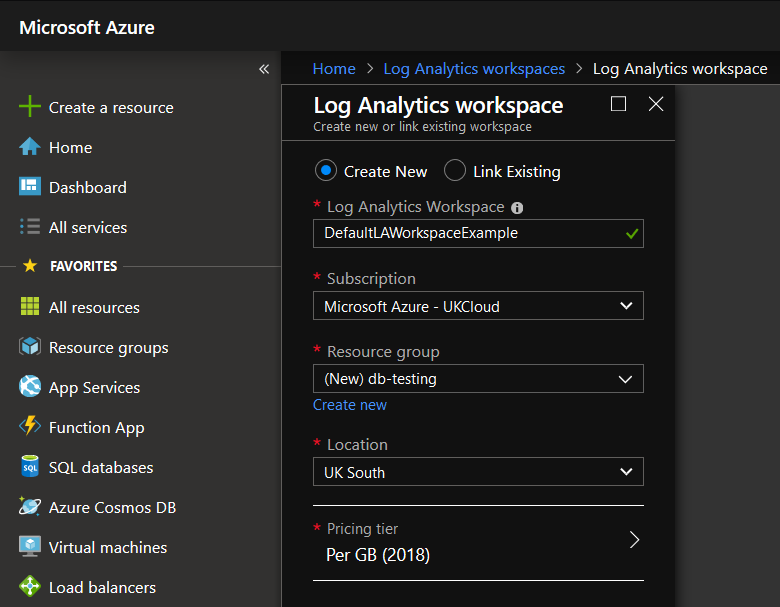
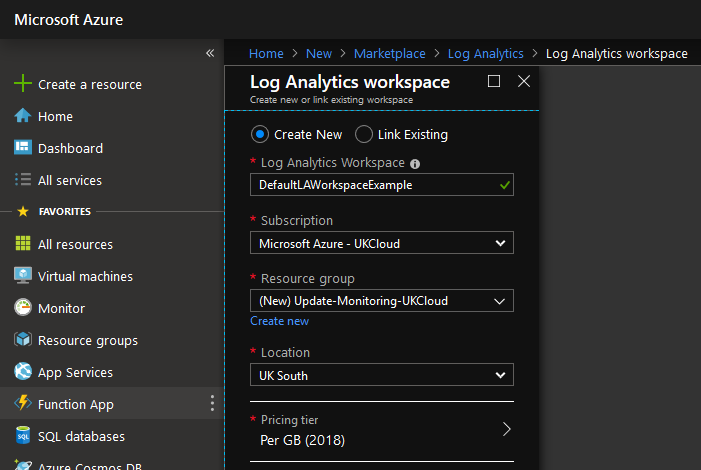
Changes requested.

diff --git a/articles/azure/azs-how-config-vm-update-management.md b/articles/azure/azs-how-config-vm-update-management.md
@@ -45,15 +45,15 @@ To complete the steps in this article, you must have appropriate access to a sub
 
 2. Create a *Log Analytics workspace* in your Azure subscription:
 
-    - Click **All services** on the side bar.
+    - Click **Create a resource**.
 
     - In the search bar, search for `log analytics`.
 
-        ![Log Analytics browser search](images/azs-browser-search-log-analytics.png)
+        ![Log Analytics search](images/azs-browser-search-log-analytics.png)
 
-    - Click **Log Analytics workspaces**.
+    - Click **Log Analytics**.
 
-    - Click **Add** at the top.
+    - Click **Create**.
 
     - Provide the following:
 
@@ -131,7 +131,7 @@ To complete the steps in this article, you must have appropriate access to a sub
 6. Navigate to the VM that you want to enable **Update & Management** on and under *Settings*, select the *Extensions* blade.
 
     > [!WARNING]
-    > For any monitoring to work correctly, the VM **must** have HTTPS (Port 443) enabled in the **Network Security Group** rules.
+    > For any monitoring to work correctly, the VM **must** have HTTPS (Port 443) enabled in its **Network Security Group** rules.
 
 7. Click **Add** at the top, select the extension **Azure Monitor, Update and Configuration Management** and then click **Create**.
 
@@ -147,7 +147,7 @@ To complete the steps in this article, you must have appropriate access to a sub
 
         ![Log Analytics workspace computers connected](images/azs-browser-log-analytics-workspace-computers-connected.png)
 
-    - Click *x VM Type COMPUTERS CONNECTED*. This will bring up logs for the *Log Analytics workspace*.
+    - Click *x VM Type COMPUTERS CONNECTED*. This will bring up the logs for that specific VM type.
 
     - Change the time range to **Last 30 minutes**.
 

diff --git a/articles/azure/azs-how-setup-monitoring.md b/articles/azure/azs-how-setup-monitoring.md
@@ -35,22 +35,19 @@ To complete the steps in this article, you must have appropriate access to a sub
 > [!WARNING]
 > Before proceeding, check [here](https://docs.microsoft.com/en-gb/azure/azure-monitor/insights/vminsights-enable-overview#supported-operating-systems) that your VMs' OS version is supported.
 
-> [!NOTE]
-> The currently supported locations are: *West Central US*, *East US*, *Canada Central*, *UK South*, *West Europe* and *Southeast Asia*.
-
 1. Log in to the [public Azure portal](https://portal.azure.com).
 
 2. Create a *Log Analytics workspace* in your Azure subscription:
 
-    - Click **All services** on the side bar.
+    - Click **Create a resource**.
 
     - In the search bar, search for `log analytics`.
 
-        ![Log Analytics browser search](images/azs-browser-search-log-analytics.png)
+        ![Log Analytics search](images/azs-browser-search-log-analytics.png)
 
-    - Click **Log Analytics workspaces**.
+    - Click **Log Analytics**.
 
-    - Click **Add** at the top.
+    - Click **Create**.
 
     - Provide the following:
 
@@ -61,6 +58,9 @@ To complete the steps in this article, you must have appropriate access to a sub
         - A **Resource Group** to host the workspace in.
 
         - A **Location** to host the workspace in.
+
+        > [!NOTE]
+        > The currently supported locations are: *West Central US*, *East US*, *Canada Central*, *UK South*, *West Europe* and *Southeast Asia*.
 
         - A *Pricing Tier* to use.
 
